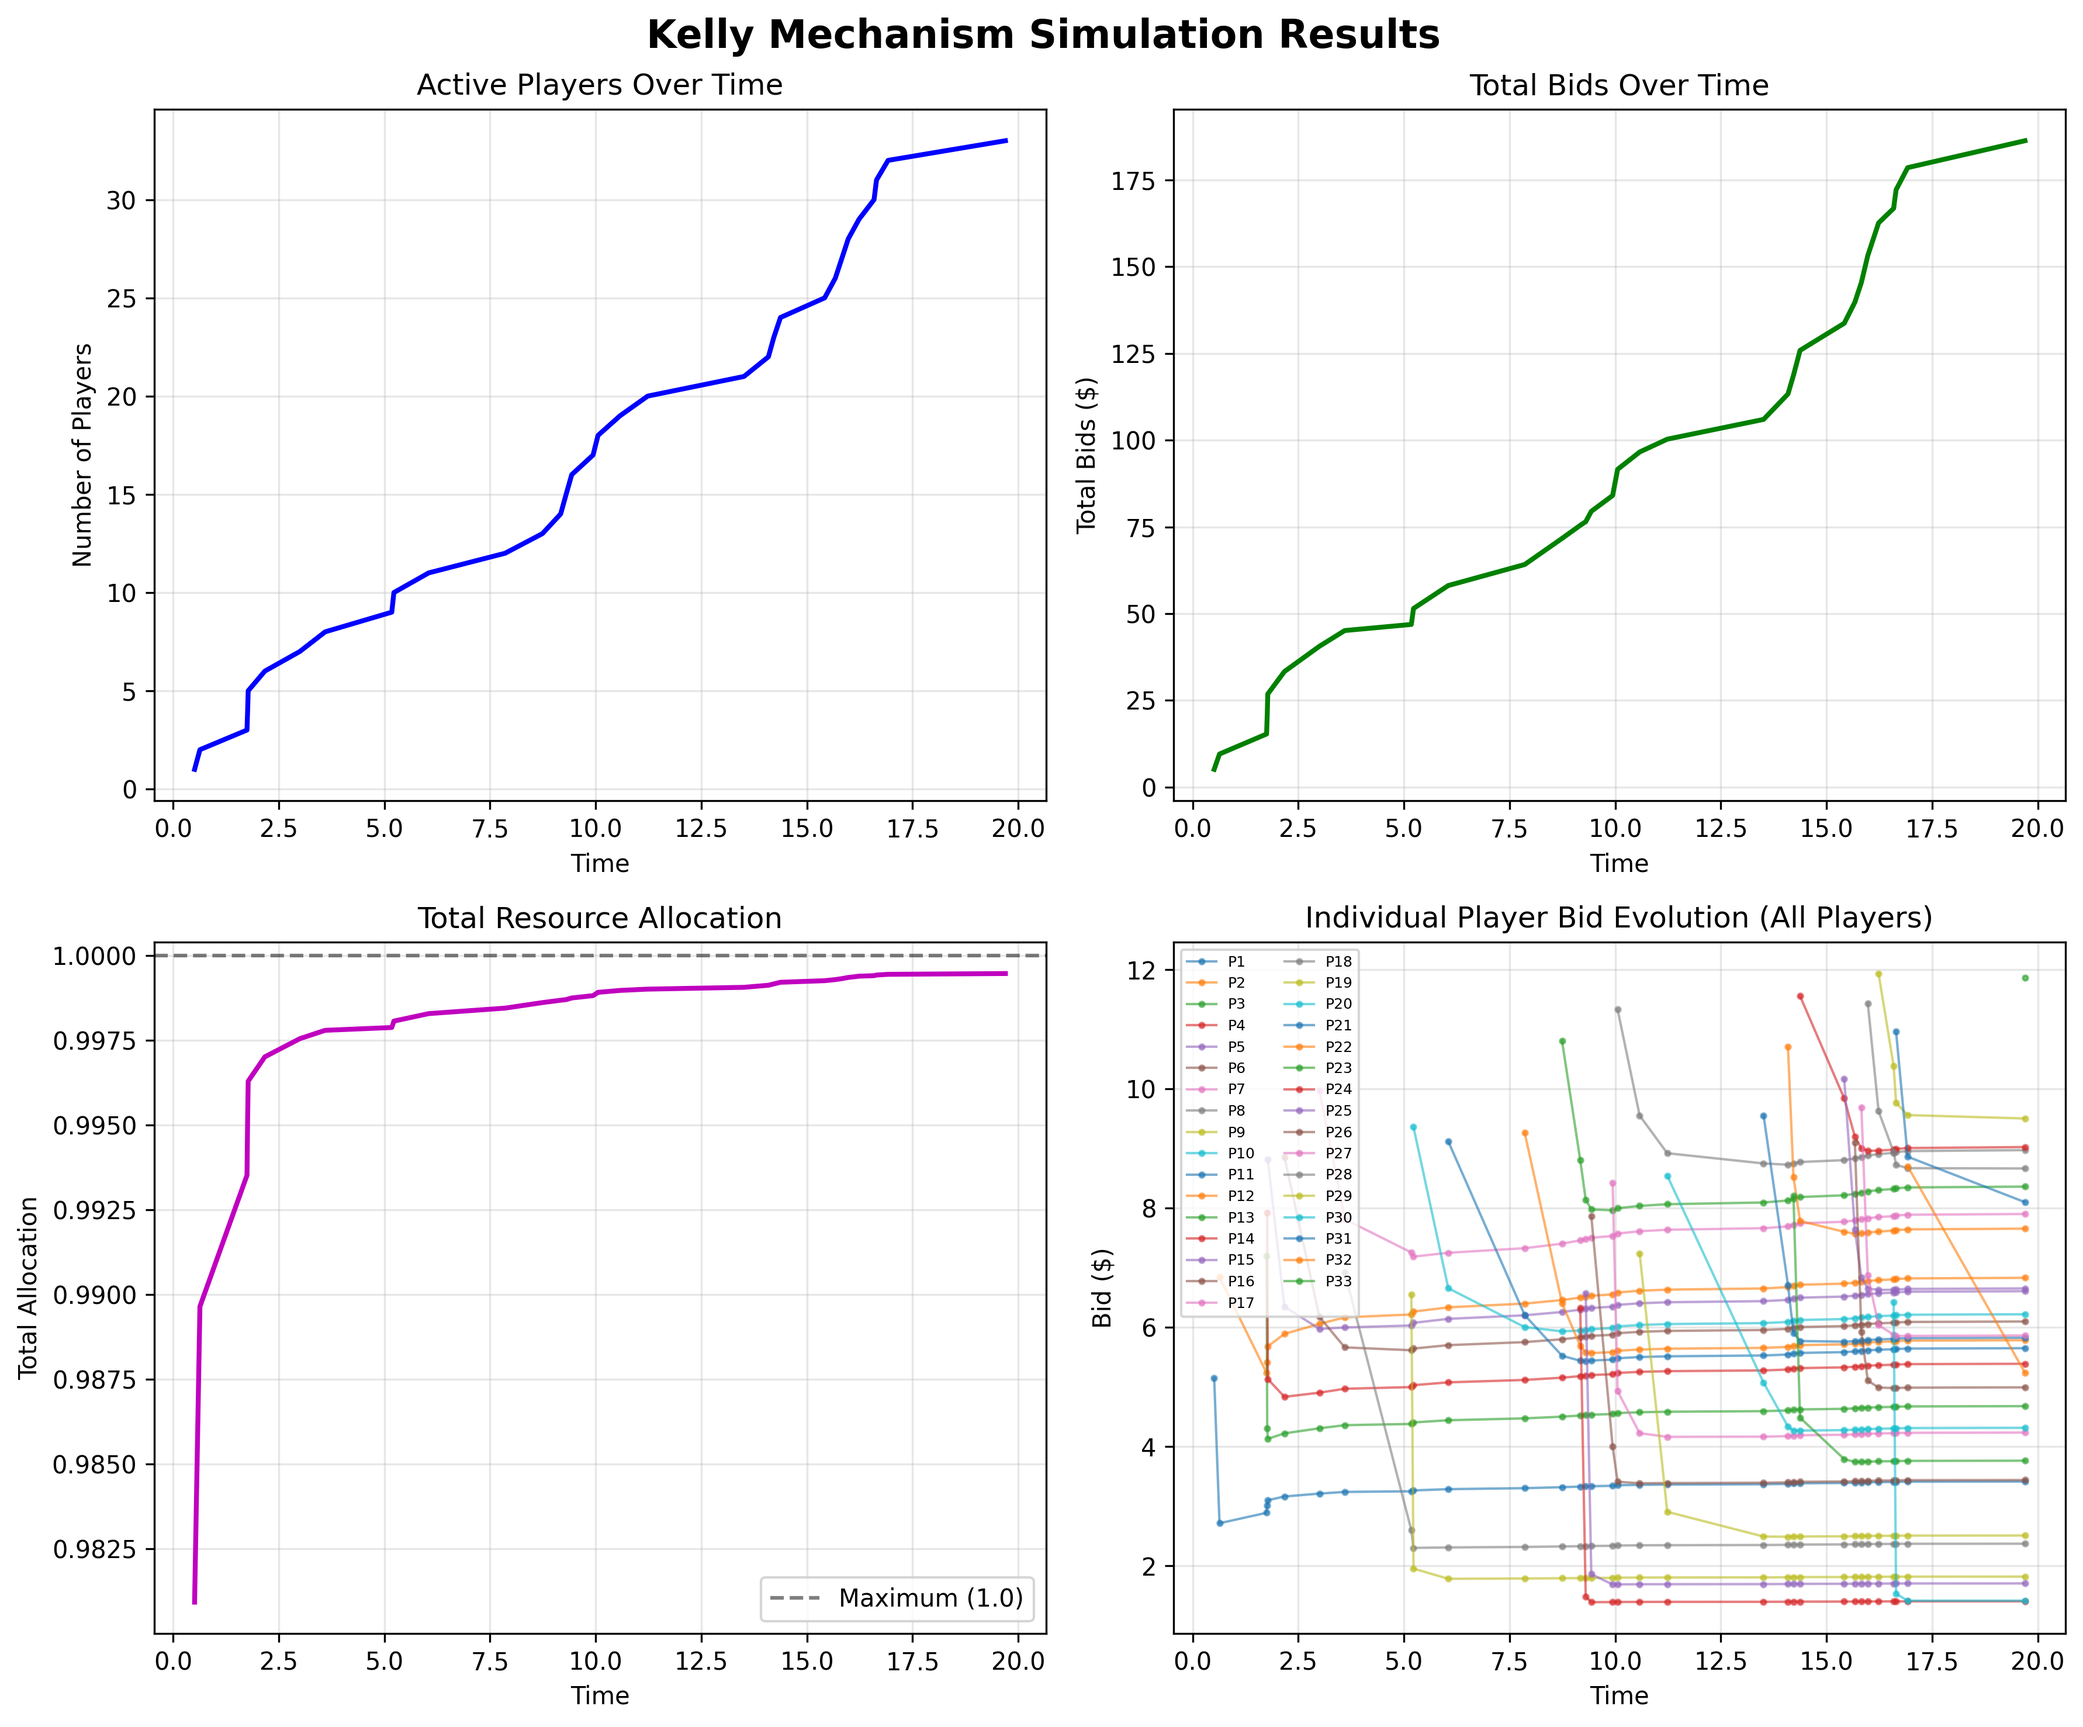
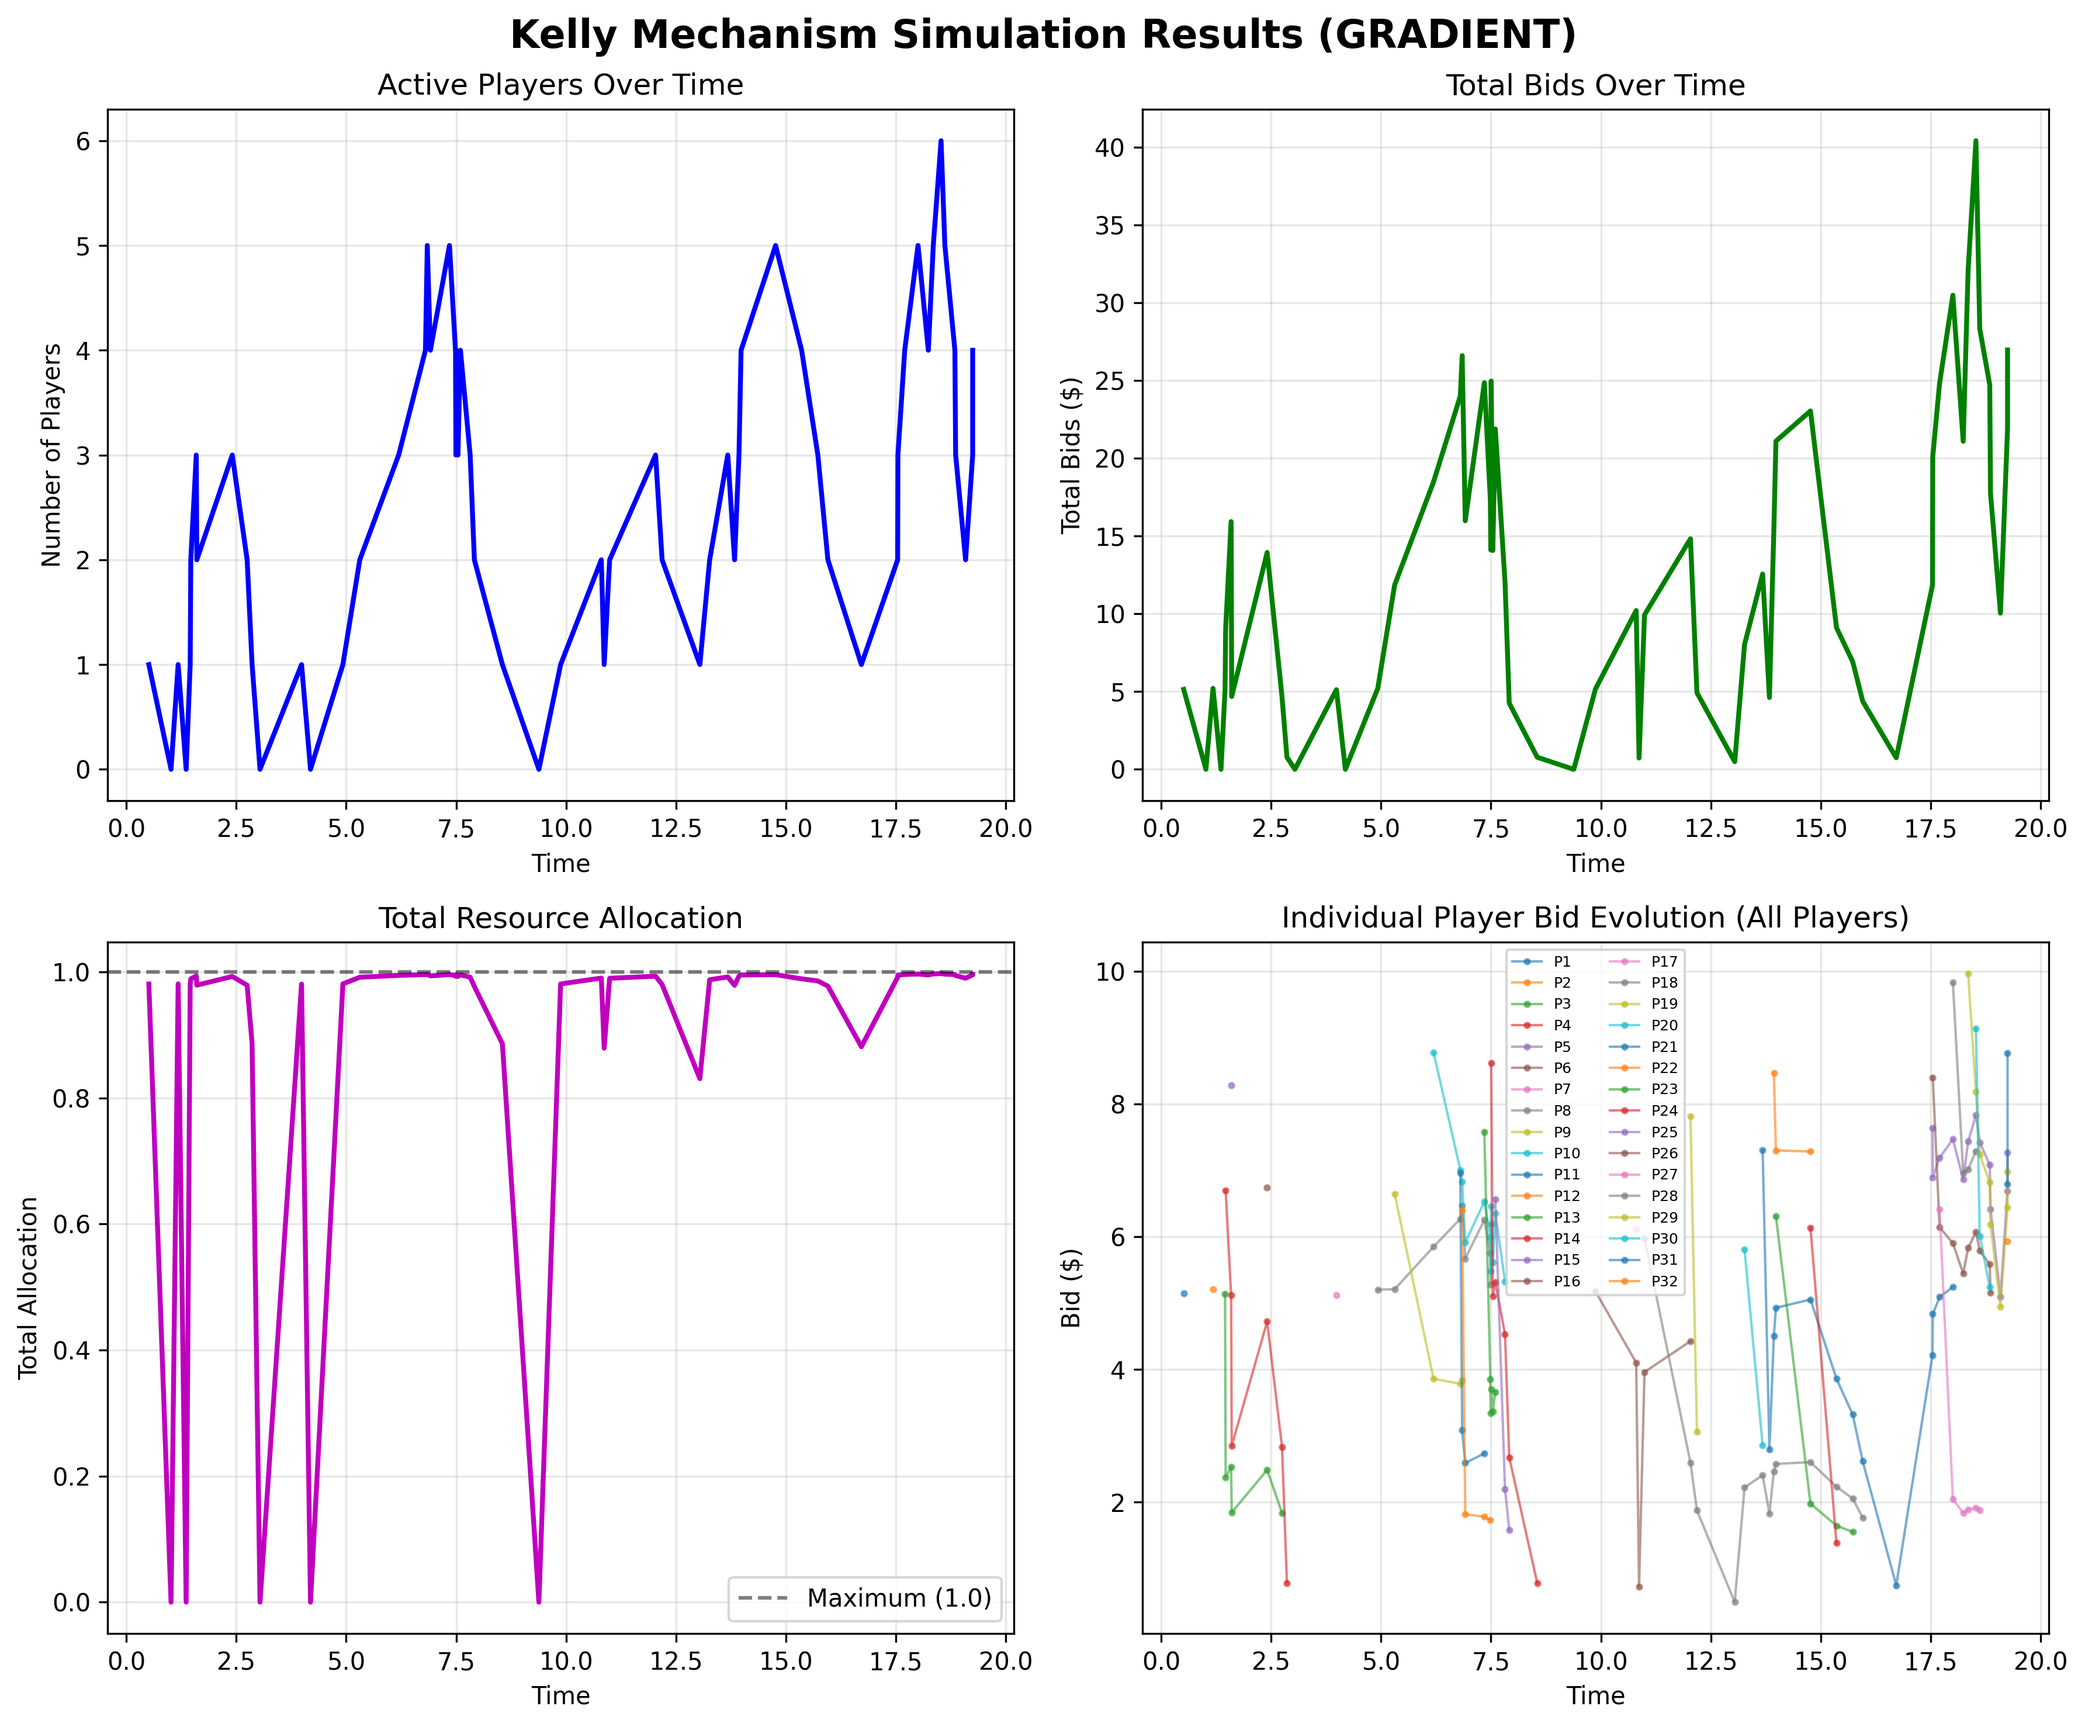
Added README.md

diff --git a/pricing_and_bidding.py b/pricing_and_bidding.py
@@ -430,7 +430,7 @@ class Simulator:
         fig: Figure
 
         fig, axes = plt.subplots(2, 2, figsize=(12, 10))
-        fig.suptitle('Kelly Mechanism Simulation Results',
+        fig.suptitle(f'Kelly Mechanism Simulation Results ({self.convergence_method.upper()})',
                      fontsize=16, fontweight='bold')
 
         # Plot 1: Number of Active Players Over Time
@@ -539,7 +539,7 @@ def run_simulation(convergence_method='sbrd', allow_departures=False):
 if __name__ == "__main__":
     import random
 
-    allow_departures: bool = False
+    allow_departures: bool = True
 
     # Run with SBRD and departures enabled
     random.seed(42)

diff --git a/README.md b/README.md
@@ -1,0 +1,324 @@
+# Event-Driven Simulator for Decentralized Resource Allocation
+
+An event-driven simulation framework for analyzing decentralized resource allocation mechanisms in networked systems. This project implements two distinct resource allocation approaches: **Multi-Server Admission Control** and **Kelly Mechanism with Pricing and Bidding**.
+
+---
+
+## 📋 Table of Contents
+
+- [Overview](#overview)
+- [Features](#features)
+- [Project Structure](#project-structure)
+- [Installation](#installation)
+- [Usage](#usage)
+  - [Running Admission Control Simulation](#running-admission-control-simulation)
+  - [Running Kelly Mechanism Simulation](#running-kelly-mechanism-simulation)
+- [Simulation Components](#simulation-components)
+  - [Admission Control](#admission-control)
+  - [Kelly Mechanism](#kelly-mechanism)
+- [Configuration](#configuration)
+- [Results and Visualization](#results-and-visualization)
+- [Contributing](#contributing)
+- [License](#license)
+
+---
+
+## 🔍 Overview
+
+This project provides a comprehensive simulation environment for studying resource allocation strategies in distributed systems. It implements:
+
+1. **Multi-Server Admission Control**: A utility-based admission controller that manages flow allocation across multiple servers with capacity constraints.
+
+2. **Kelly Mechanism with Pricing and Bidding**: A market-based resource allocation system using the Kelly mechanism with support for both Synchronous Best Response Dynamics (SBRD) and Gradient Descent convergence methods.
+
+Both simulations use event-driven architecture with Poisson arrival processes and exponential service times to model realistic network traffic patterns.
+
+---
+
+## ✨ Features
+
+### Admission Control Simulation
+
+- ✅ Multi-server architecture with configurable capacity
+- ✅ Priority-based flow admission with utility calculations
+- ✅ Utility-based admission controller with load thresholds
+- ✅ Support for multiple flow classes (video, IoT, gaming, voice)
+- ✅ Real-time visualization of system metrics
+- ✅ Comprehensive rejection rate and utilization tracking
+
+### Kelly Mechanism Simulation
+
+- ✅ Alpha-fair resource allocation (α = 0, 1, 2)
+- ✅ Dynamic player arrivals and departures (configurable)
+- ✅ Two convergence methods:
+  - Synchronous Best Response Dynamics (SBRD)
+  - Gradient Descent optimization
+- ✅ Heterogeneous player budgets and valuations
+- ✅ Real-time price adjustment and allocation tracking
+- ✅ Extensive plotting and visualization capabilities
+
+---
+
+## 📁 Project Structure
+
+```
+project/
+├── admission_control.py          # Multi-server admission control simulation
+├── pricing_and_bidding.py        # Kelly mechanism with pricing/bidding
+├── README.md                      # This file
+├── TODO.md                        # Project task tracking
+├── research_paper_review.md       # Research paper analysis
+├── simulation_assignment_review.md # Assignment review notes
+├── ams/                           # Python virtual environment
+└── Multi Server Admission Control/ # Reference materials
+```
+
+---
+
+## 🚀 Installation
+
+### Prerequisites
+
+- Python 3.8 or higher
+- pip package manager
+
+### Setup
+
+1. **Clone the repository**:
+
+```bash
+git clone https://github.com/AlaaAbdelbaki/Event-Driven-Simulator-for-Decentralized-Resource-Allocation.git
+cd Event-Driven-Simulator-for-Decentralized-Resource-Allocation
+```
+
+2. **Activate the virtual environment**:
+
+**Windows (PowerShell)**:
+
+```powershell
+.\ams\Scripts\Activate.ps1
+```
+
+**Windows (Command Prompt)**:
+
+```cmd
+.\ams\Scripts\activate.bat
+```
+
+**Linux/macOS**:
+
+```bash
+source ams/bin/activate
+```
+
+3. **Install dependencies**:
+
+```bash
+pip install numpy matplotlib
+```
+
+---
+
+## 💻 Usage
+
+### Running Admission Control Simulation
+
+Execute the multi-server admission control simulation:
+
+```bash
+python admission_control.py
+```
+
+**Output**:
+
+- Console logs showing flow arrivals, admissions, and rejections
+- Four visualization plots:
+  - Server utilization over time
+  - Total system utility
+  - Admission decisions
+  - Cumulative rejection rate
+
+### Running Kelly Mechanism Simulation
+
+Execute the Kelly mechanism with pricing and bidding:
+
+```bash
+python pricing_and_bidding.py
+```
+
+**Default behavior**: Runs two simulations sequentially:
+
+1. SBRD convergence with player departures enabled
+2. Gradient descent convergence with departures disabled
+
+**Custom execution** (modify `__main__` block):
+
+```python
+# Run with specific settings
+run_simulation(convergence_method='sbrd', allow_departures=True)
+run_simulation(convergence_method='gradient', allow_departures=False)
+```
+
+---
+
+## 🔧 Simulation Components
+
+### Admission Control
+
+#### Classes
+
+- **`Flow`**: Represents an incoming network flow with class type, duration, and priority
+- **`Application`**: Defines server applications that process specific flow types
+- **`Server`**: Manages flow processing with capacity constraints and utility tracking
+- **`UtilityBasedAdmissionController`**: Makes admission decisions based on system load and utility
+- **`Simulation`**: Orchestrates the event-driven simulation loop
+
+#### Key Parameters
+
+```python
+NUM_SERVERS = 4               # Number of servers in the system
+SERVER_CAPACITY = 10          # Max flows per server
+FLOW_ARRIVAL_RATE = 2.0       # Lambda (Poisson arrivals)
+MEAN_FLOW_DURATION = 15.0     # Average flow duration
+ADMISSION_THRESHOLD = 0.85    # Load threshold for admission
+SIMULATION_TIME = 100         # Total simulation time
+```
+
+### Kelly Mechanism
+
+#### Classes
+
+- **`Player`**: Strategic agent with budget, valuation, and bidding strategy
+- **`Resource`**: Shared resource with capacity, price, and Kelly allocation rule
+- **`Simulator`**: Event-driven simulation with arrival/departure handling
+
+#### Key Parameters
+
+```python
+ARRIVAL_RATE = 2.0            # Lambda (Poisson arrivals)
+DEPARTURE_RATE = 0.5          # Mu (exponential departures)
+RESOURCE_CAPACITY = 100.0     # Total resource capacity
+PRICE = 1.0                   # Base price (lambda)
+DURATION = 20.0               # Simulation duration
+```
+
+#### Alpha-Fairness
+
+The Kelly mechanism supports three fairness modes:
+
+- **α = 0**: Efficiency maximization
+- **α = 1**: Proportional fairness
+- **α = 2**: Maximum-minimum fairness (MPD)
+
+---
+
+## ⚙ Configuration
+
+### Admission Control Configuration
+
+Edit `admission_control.py` to modify:
+
+```python
+# Server setup
+NUM_SERVERS = 4
+SERVER_CAPACITY = 10
+
+# Traffic parameters
+FLOW_ARRIVAL_RATE = 2.0
+MEAN_FLOW_DURATION = 15.0
+
+# Admission policy
+ADMISSION_THRESHOLD = 0.85  # Raise to be more selective
+```
+
+### Kelly Mechanism Configuration
+
+Edit the `run_simulation()` function in `pricing_and_bidding.py`:
+
+```python
+# Convergence method: 'sbrd' or 'gradient'
+convergence_method = 'sbrd'
+
+# Allow departures: True or False
+allow_departures = True
+
+# Simulation parameters
+ARRIVAL_RATE = 2.0
+DEPARTURE_RATE = 0.5
+RESOURCE_CAPACITY = 100.0
+DURATION = 20.0
+```
+
+**Player heterogeneity**:
+
+```python
+new_budget = random.uniform(10, 50)      # Budget range
+new_valuation = random.uniform(1, 10)    # Valuation range
+```
+
+---
+
+## 📊 Results and Visualization
+
+### Admission Control Plots
+
+1. **Server Utilization**: Shows the load on each server over time
+2. **System Utility**: Tracks total utility from admitted flows
+3. **Admission Decisions**: Visualizes admission/rejection events
+4. **Rejection Rate**: Cumulative rejection percentage
+
+### Kelly Mechanism Output
+
+**Console logs**:
+
+- Player arrivals and departures
+- Convergence iterations
+- Allocation results
+- Payment calculations
+
+**Plots** (if visualization enabled):
+
+- Resource allocation per player over time
+- Price dynamics
+- Utility evolution
+
+---
+
+## 🤝 Contributing
+
+Contributions are welcome! Please follow these steps:
+
+1. Fork the repository
+2. Create a feature branch (`git checkout -b feature/your-feature`)
+3. Commit your changes (`git commit -m 'Add your feature'`)
+4. Push to the branch (`git push origin feature/your-feature`)
+5. Open a Pull Request
+
+---
+
+## 📄 License
+
+This project is available for educational and research purposes.
+
+---
+
+## 📚 References
+
+- Kelly, F. (1997). "Charging and rate control for elastic traffic"
+- Research materials in `research_paper_review.md`
+- Assignment details in `simulation_assignment_review.md`
+
+---
+
+## 👤 Author
+
+**Alaa Abdelbaki**
+
+- GitHub: [@AlaaAbdelbaki](https://github.com/AlaaAbdelbaki)
+- Repository: [Event-Driven-Simulator-for-Decentralized-Resource-Allocation](https://github.com/AlaaAbdelbaki/Event-Driven-Simulator-for-Decentralized-Resource-Allocation)
+
+---
+
+## 🙏 Acknowledgments
+
+This project implements concepts from network resource allocation theory and game-theoretic mechanism design, with inspiration from the Kelly mechanism and utility-based admission control research.
